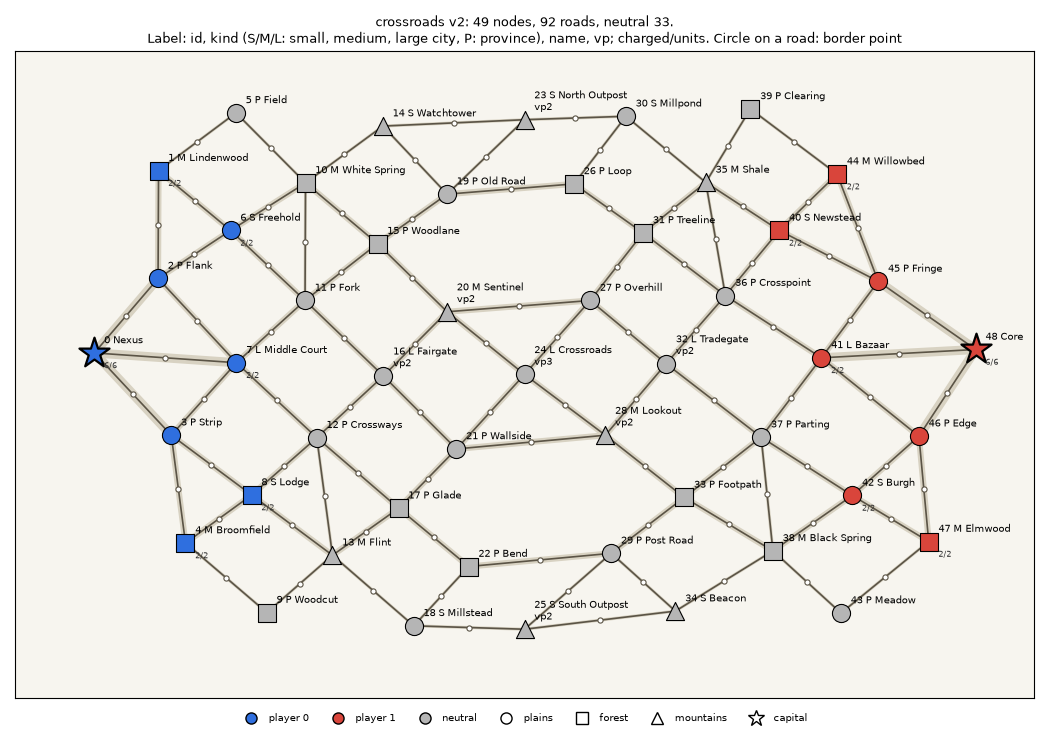
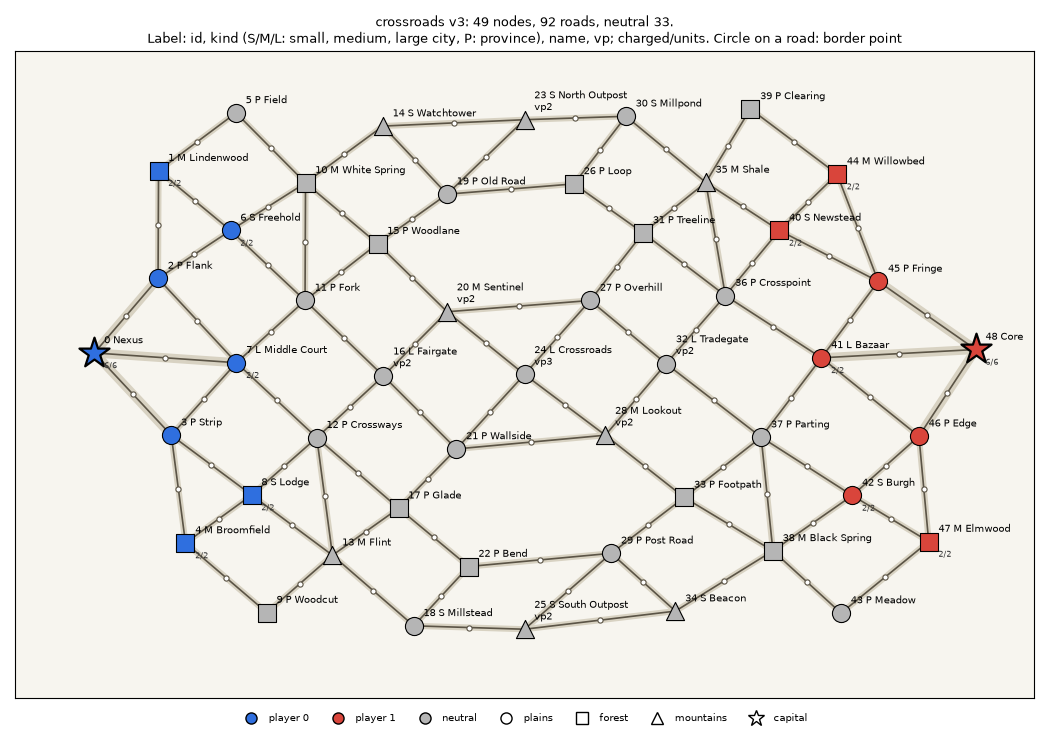
feat(maps): flank roads can be upgraded to level 2 (#422)

diff --git a/maps/README.md b/maps/README.md
@@ -47,7 +47,7 @@ Common to all maps:
 - every node has a name (DEC-23, item 4; the preview labels it after the kind); the border point is in the middle of all
   roads (`border_permille` 500), the preview draws it as a small circle;
 - all roads start at level 1 (DEC-22); the upgrade limit `max_level` (at most 3) sets the character
-  of a map; roads affect only supply: there is no road type, an upgrade only speeds up
+  of a map (on the pool maps no road is limited to level 1: flank and rim roads go up to 2, #422); roads affect only supply: there is no road type, an upgrade only speeds up
   delivery (DEC-26);
 - a city's capacity is set by its kind `kind` (capital 10, large 8, medium 6, small 4, DEC-22);
   the rule by which three maps got their kinds before the DEC-23 rework: `docs/design/map-format.md`,
@@ -75,7 +75,7 @@ Scree); to the Gates: the main road through Outpost, Highroad and Hillfoot (up t
 there are two large cities of vp 2 (Oakgrove, Fairground): they are held by whoever reaches the foot first.
 
 Character: a positional map. Mountains give the defender +1 and a slow entry, the ridge is crossed only
-through the passes and the Gates; a trail along the crest links the peaks and the passes but cannot be upgraded (level 1). The approach provinces
+through the passes and the Gates; a trail along the crest links the peaks and the passes and can be upgraded once (up to level 2, like the other flank roads). The approach provinces
 cut the supply of the cities before the ridge if they are lost.
 
 ### Crossroads (`crossroads`)
